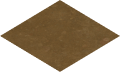
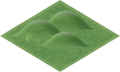
Update tile artwork, add sprites
Now that I know that hills are not, in fact, mountains, I can create
accurate assets for each

diff --git a/src/views/CivView.java b/src/views/CivView.java
@@ -141,7 +141,7 @@ public class CivView extends Application implements Observer {
 		// grab hover cursor image for later
 		try {
 			Image hoverCursorImage = new Image(
-					new FileInputStream("src/assets/tiles/hover-1.png")
+					new FileInputStream("src/assets/tiles/hover.png")
 			);
 			mapHoverCursor = new ImageView(hoverCursorImage);
 			mapHoverCursor.setFitWidth(TILE_SIZE);
